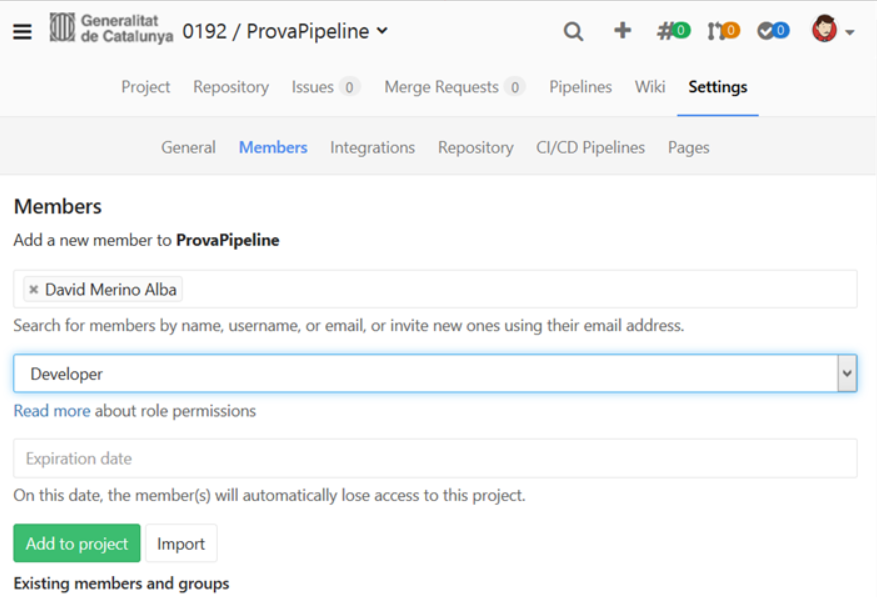
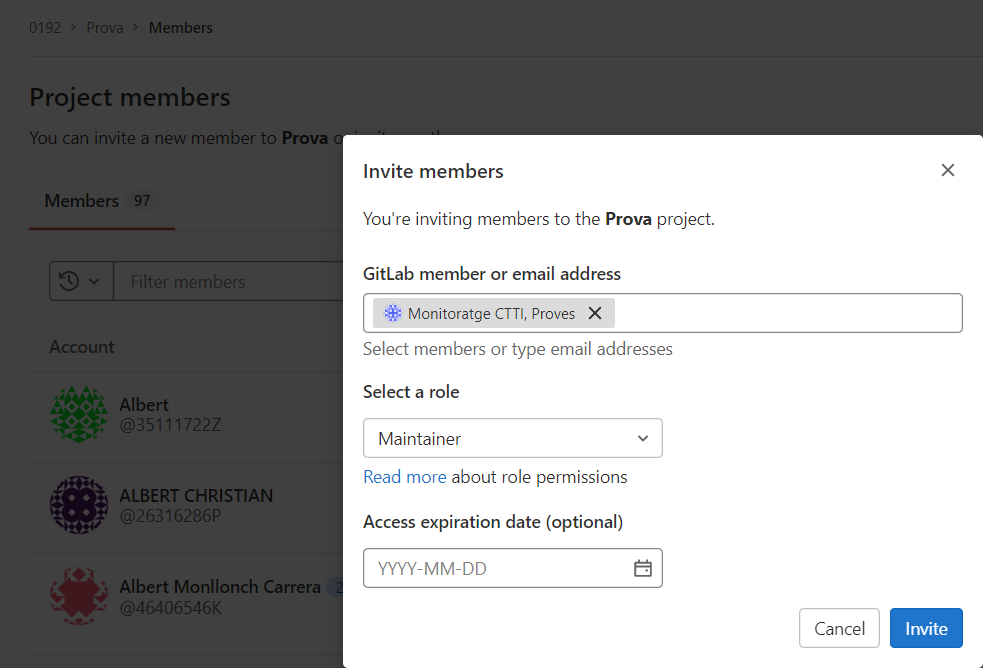
actualització captura i indicacions autoservei usuaris d'acord versió actual del producte

diff --git a/content/sic20-serveis/autoservei-usuaris.md b/content/sic20-serveis/autoservei-usuaris.md
@@ -1,5 +1,5 @@
 +++
-date = "2020-06-17"
+date = "2023-05-22"
 title = "Autoservei d'usuaris"
 description = "Autoservei d'usuaris mitjançant el Servei de Custòdia de Codi (Gitlab)"
 sections = "SIC"
@@ -147,12 +147,14 @@ Els mateixos usuaris Release Manager podran consultar, editar, afegir i eliminar
 Per a concedir accés sobre un projecte caldrà:
 
 * Accedir al **projecte**.
-* Mitjançant el menú superior cal seleccionar "**Settings**" i, dins aquest ,"**Members**".
+* Mitjançant el menú superior cal seleccionar "**Project information**" i, dins aquest ,"**Members**".
+* A la plana que apareix, pressionar el botó "**Invite members**".
 * Al formulari que apareix, cercar l'usuari al qual es vol donar accés. La cerca es pot realitzar per nom o NIF. S'aconsella **cercar per NIF**.
 * Escollir el **rol** que ha de tenir l'usuari dins el projecte:
 	* Rol Mantainer: permetrà treballar amb el projecte en qüestió, crear nous projectes dins el grup de l'aplicació i proporcionar accés a altres usuaris als projectes dins el grup.
 	* Rol Developer: únicament permetrà treballar amb el projecte en qüestió (descàrrega i pujades).
-* Prémer el botó de "**Add to Project**"
+	* Rol Reporter: únicament permetrà visualitzar el codi font del projecte.
+* Prémer el botó de "**Invite**"
 
 <CENTER>![Proporcionar accés a Projecte](/images/news/autoserveiUsuaris_4.PNG)</center>
 <br/>

diff --git a/content/sic30-serveis/autoservei-usuaris.md b/content/sic30-serveis/autoservei-usuaris.md
@@ -1,5 +1,5 @@
 +++
-date = "2020-06-17"
+date = "2023-05-22"
 title = "Autoservei d'usuaris"
 description = "Autoservei d'usuaris mitjançant el Servei de Custòdia de Codi (Gitlab)"
 aliases = [
@@ -152,12 +152,14 @@ Els mateixos usuaris Release Manager podran consultar, editar, afegir i eliminar
 Per a concedir accés sobre un projecte caldrà:
 
 * Accedir al **projecte**.
-* Mitjançant el menú superior cal seleccionar "**Settings**" i, dins aquest ,"**Members**".
+* Mitjançant el menú superior cal seleccionar "**Project information**" i, dins aquest ,"**Members**".
+* A la plana que apareix, pressionar el botó "**Invite members**".
 * Al formulari que apareix, cercar l'usuari al qual es vol donar accés. La cerca es pot realitzar per nom o NIF. S'aconsella **cercar per NIF**.
 * Escollir el **rol** que ha de tenir l'usuari dins el projecte:
 	* Rol Mantainer: permetrà treballar amb el projecte en qüestió, crear nous projectes dins el grup de l'aplicació i proporcionar accés a altres usuaris als projectes dins el grup.
 	* Rol Developer: únicament permetrà treballar amb el projecte en qüestió (descàrrega i pujades).
-* Prémer el botó de "**Add to Project**"
+	* Rol Reporter: únicament permetrà visualitzar el codi font del projecte.
+* Prémer el botó de "**Invite**"
 
 <CENTER>![Proporcionar accés a Projecte](/images/news/autoserveiUsuaris_4.PNG)</center>
 <br/>
